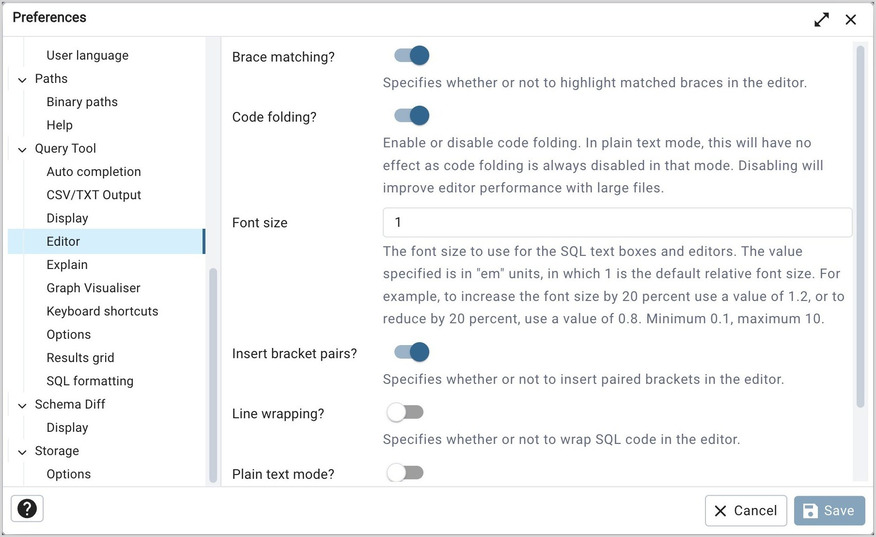
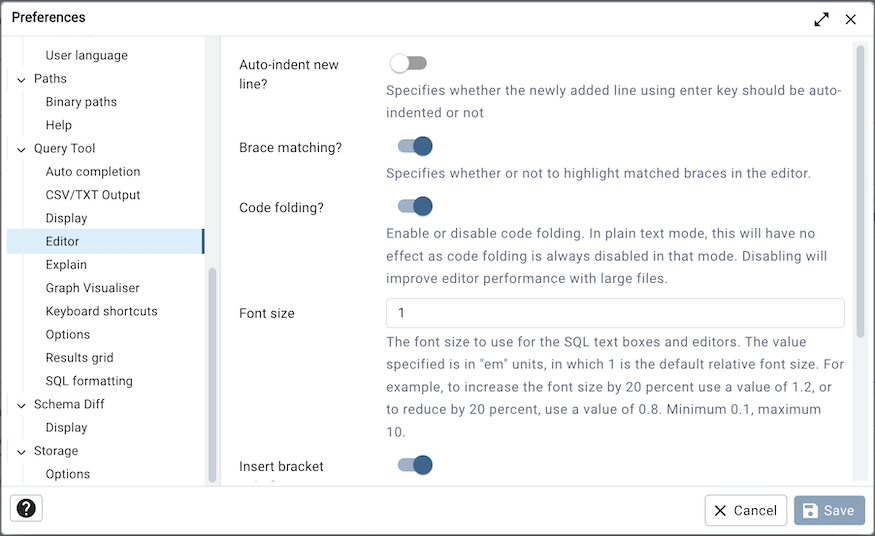
Fixed new line indentation in query editor and add a user preference to disable it. #7295

diff --git a/web/pgadmin/static/js/components/ReactCodeMirror/components/Editor.jsx b/web/pgadmin/static/js/components/ReactCodeMirror/components/Editor.jsx
@@ -36,6 +36,7 @@ import {
   bracketMatching,
   indentUnit,
   foldKeymap,
+  indentService
 } from '@codemirror/language';
 
 import syntaxHighlighting from '../extensions/highlighting';
@@ -46,6 +47,7 @@ import CustomEditorView from '../CustomEditorView';
 import breakpointGutter, { breakpointEffect } from '../extensions/breakpointGutter';
 import activeLineExtn from '../extensions/activeLineMarker';
 import currentQueryHighlighterExtn from '../extensions/currentQueryHighlighter';
+import { indentNewLine } from '../extensions/extraStates';
 
 const arrowRightHtml = ReactDOMServer.renderToString(<KeyboardArrowRightRoundedIcon style={{fontSize: '1.2em'}} />);
 const arrowDownHtml = ReactDOMServer.renderToString(<ExpandMoreRoundedIcon style={{fontSize: '1.2em'}} />);
@@ -134,7 +136,15 @@ const defaultExtensions = [
     drop: handleDrop,
     paste: handlePaste,
   }),
-  errorMarkerExtn()
+  errorMarkerExtn(),
+  indentService.of((context, pos) => {
+    if(context.state.facet(indentNewLine)) {
+      const previousLine = context.lineAt(pos, -1);
+      let prevText = previousLine.text.replaceAll('\t', ' '.repeat(context.state.tabSize));
+      return prevText.match(/^\s*/)?.[0].length;
+    }
+    return 0;
+  }),
 ];
 
 export default function Editor({
@@ -310,12 +320,18 @@ export default function Editor({
     );
     if (pref.use_spaces) {
       newConfigExtn.push(
-        indentUnit.of(new Array(pref.tab_size).fill(' ').join('')),
+        indentUnit.of(' '.repeat(pref.tab_size)),
       );
     } else {
       newConfigExtn.push(
         indentUnit.of('\t'),
       );
+    }
+
+    if(pref.indent_new_line) {
+      newConfigExtn.push(indentNewLine.of(true));
+    } else {
+      newConfigExtn.push(indentNewLine.of(false));
     }
 
     if (pref.wrap_code) {

diff --git a/web/pgadmin/static/js/components/ReactCodeMirror/extensions/extraStates.js b/web/pgadmin/static/js/components/ReactCodeMirror/extensions/extraStates.js
@@ -1,0 +1,14 @@
+/////////////////////////////////////////////////////////////
+//
+// pgAdmin 4 - PostgreSQL Tools
+//
+// Copyright (C) 2013 - 2023, The pgAdmin Development Team
+// This software is released under the PostgreSQL Licence
+//
+//////////////////////////////////////////////////////////////
+
+import { Facet } from '@codemirror/state';
+
+export const indentNewLine = Facet.define({
+  combine: values => values.length ? values[0] : true,
+});

diff --git a/web/pgadmin/tools/sqleditor/utils/query_tool_preferences.py b/web/pgadmin/tools/sqleditor/utils/query_tool_preferences.py
@@ -892,6 +892,16 @@ def register_query_tool_preferences(self):
         )
     )
 
+    self.sql_font_size = self.preference.register(
+        'Editor', 'indent_new_line',
+        gettext("Auto-indent new line?"), 'boolean', True,
+        category_label=PREF_LABEL_EDITOR,
+        help_str=gettext(
+            'Specifies whether the newly added line using enter key should '
+            'be auto-indented or not'
+        )
+    )
+
     self.expression_width = self.preference.register(
         'editor', 'expression_width',
         gettext("Expression Width"), 'integer', 50,
